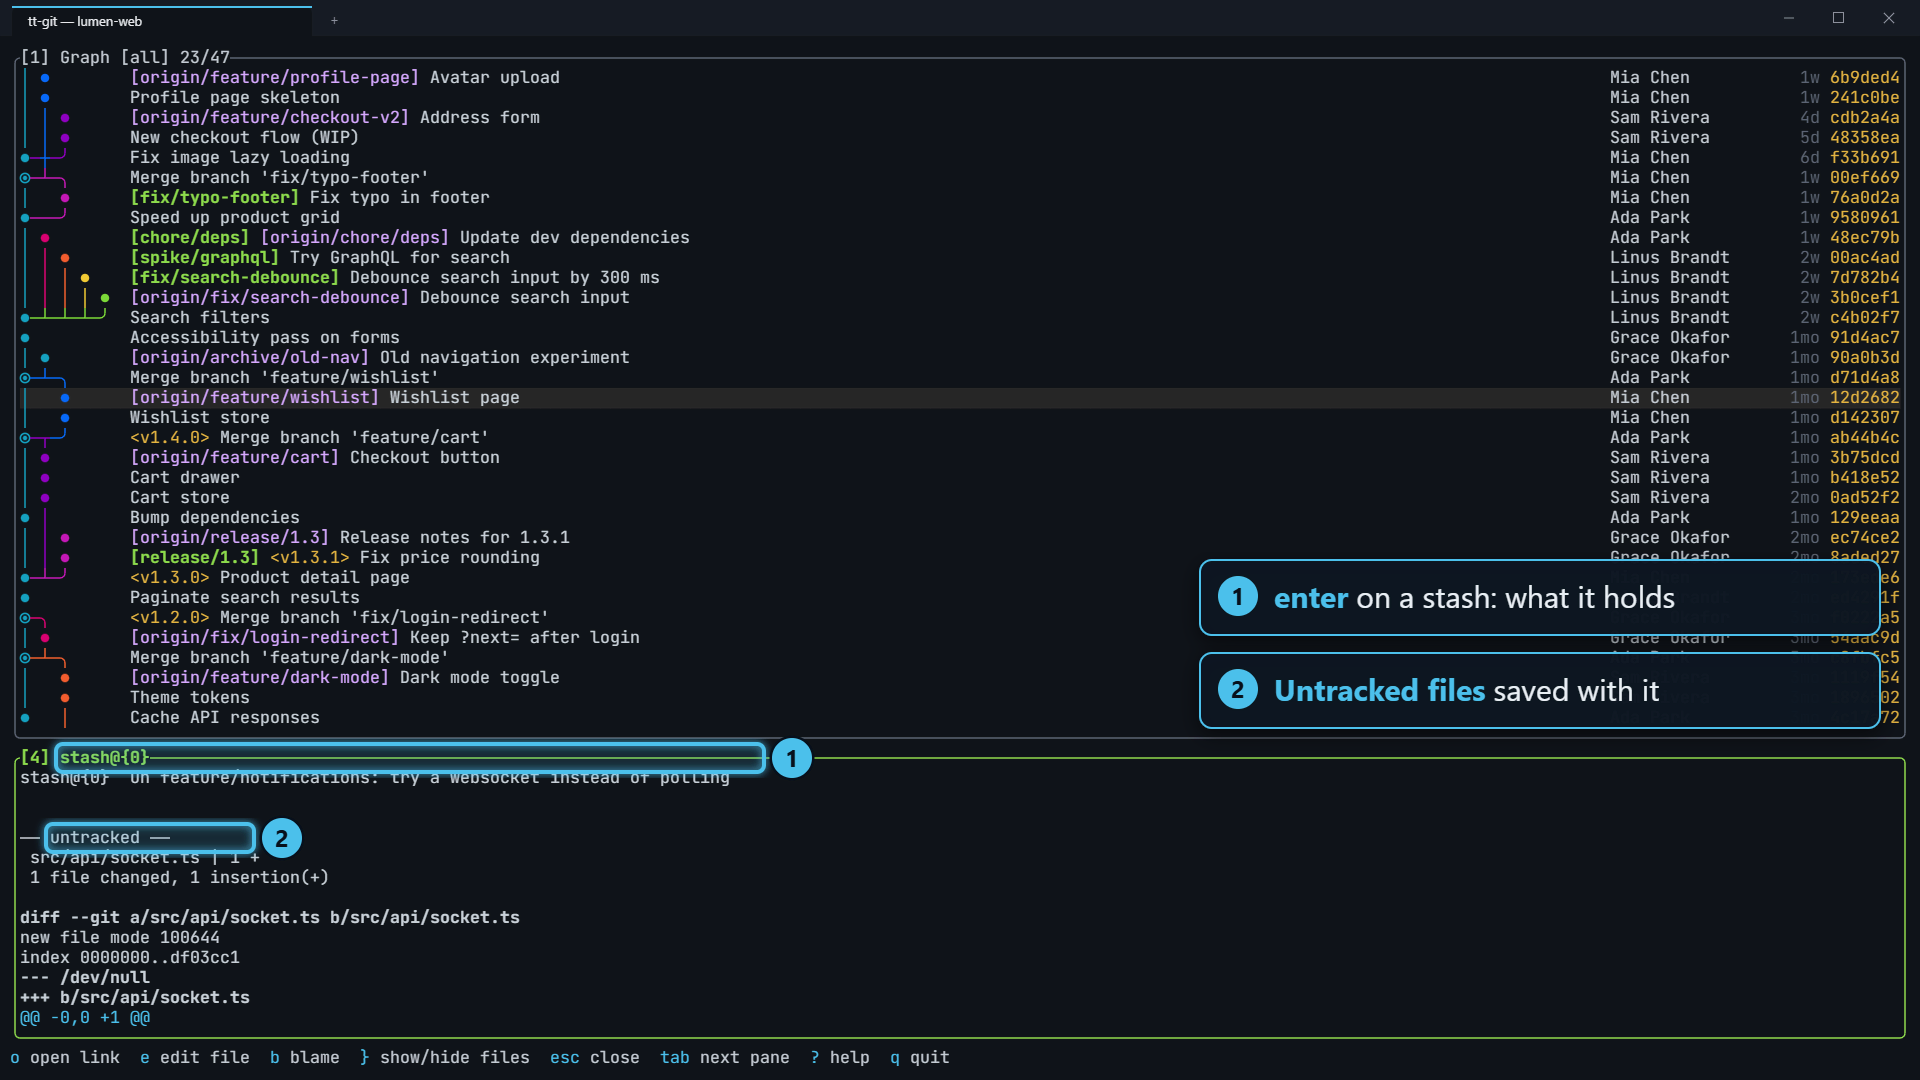
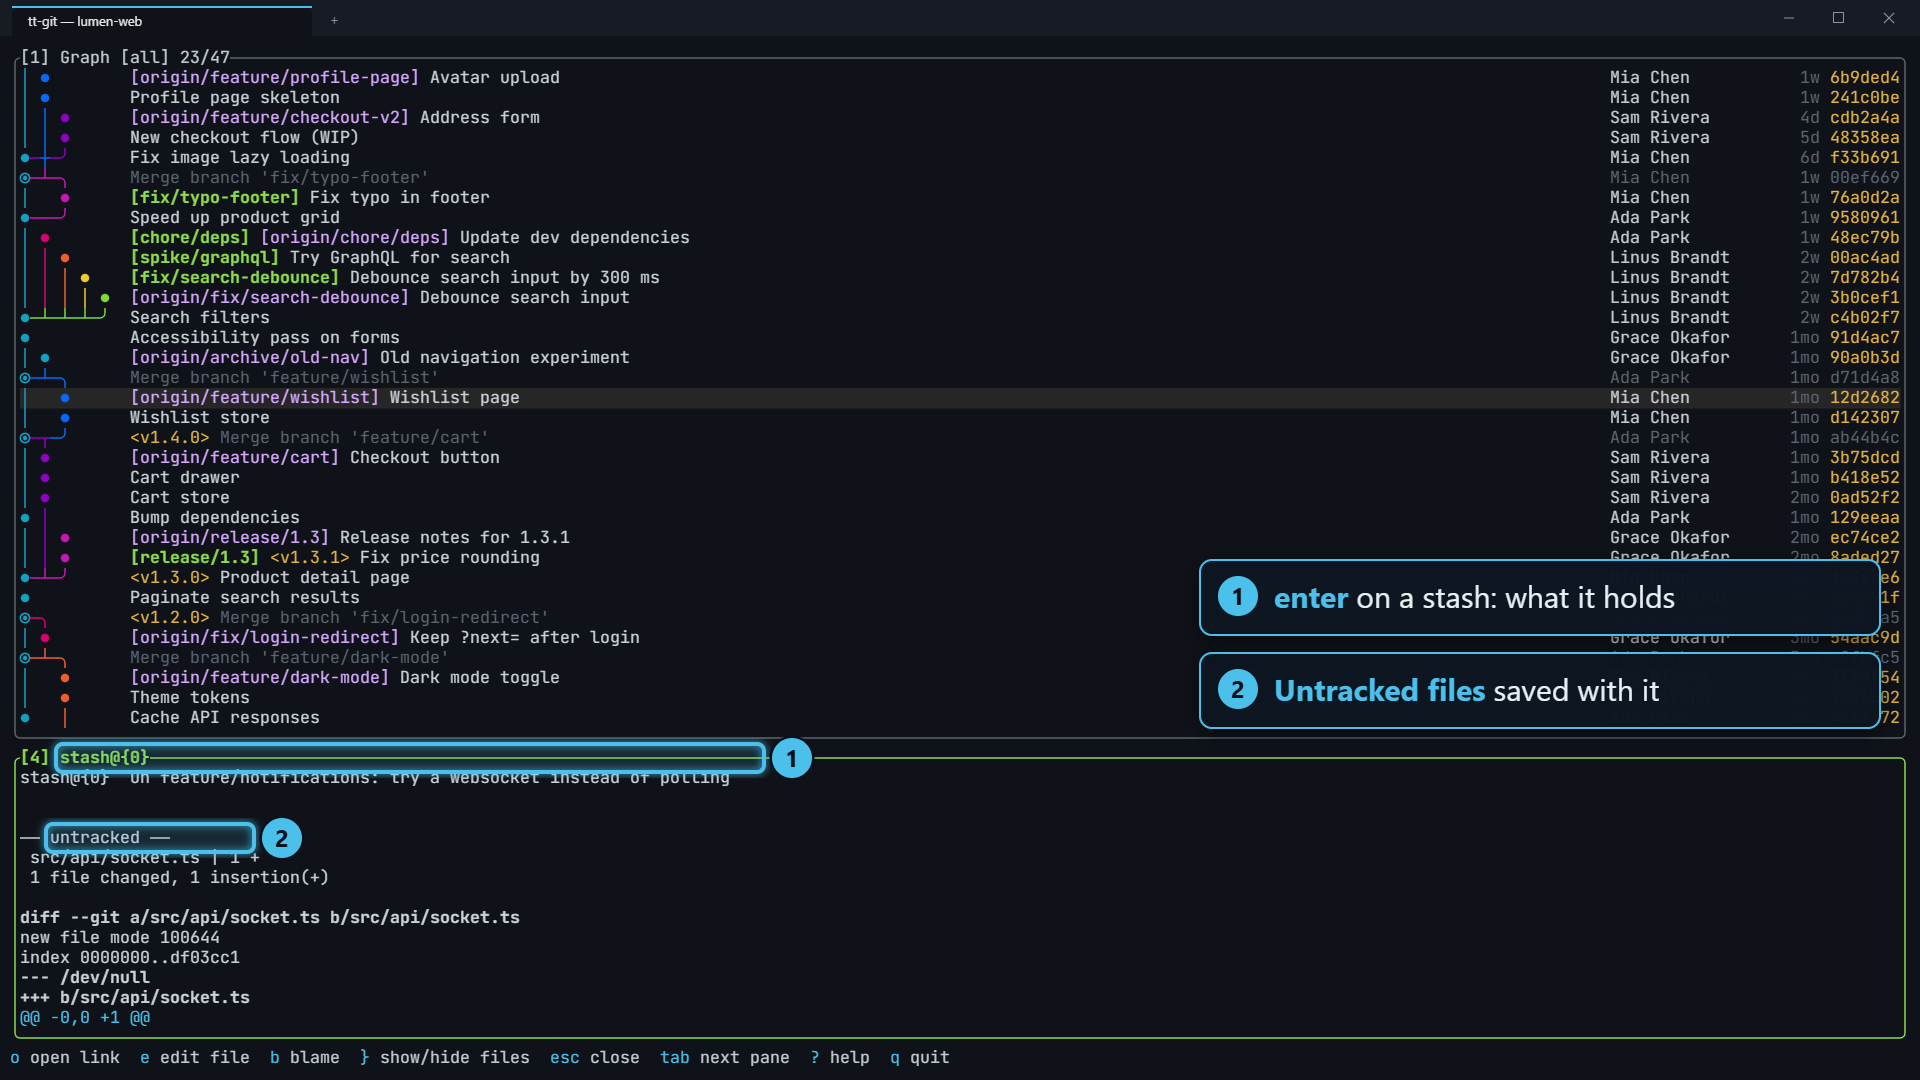
Graph: dim merge commits
A merge row's subject, author, date and hash are drawn in the muted
color so the commits that did the work stand out. The lane glyph, badges
and branch notes keep their colors.

Claude-Session: https://claude.ai/code/session_016SNbY8LBvts1mCBkCr3vcL

diff --git a/crates/tt-git-tui/src/panes/graph.rs b/crates/tt-git-tui/src/panes/graph.rs
@@ -584,21 +584,23 @@ impl GraphPane {
                 spans.push(Span::raw(" "));
             }
         }
-        push_fit(&mut spans, &commit.summary, text_width, Style::default());
+        // Merge commits are dimmed so the work itself stands out.
+        let dim = |style: Style| if row.is_merge() { theme.muted } else { style };
+        push_fit(&mut spans, &commit.summary, text_width, dim(Style::default()));
 
         if meta > 0 {
             if show_author {
                 spans.push(Span::raw(" "));
-                push_fit(&mut spans, &commit.author_name, AUTHOR_WIDTH, theme.author);
+                push_fit(&mut spans, &commit.author_name, AUTHOR_WIDTH, dim(theme.author));
             }
             spans.push(Span::raw(" "));
             let date = match self.dates {
                 DateStyle::Relative => relative(now, commit.commit_time),
                 DateStyle::Clock => clock_time(commit.commit_time, self.clock.utc_offset(commit.commit_time)),
             };
-            spans.push(Span::styled(fit_right(&date, date_width), theme.date));
+            spans.push(Span::styled(fit_right(&date, date_width), dim(theme.date)));
             spans.push(Span::raw(" "));
-            spans.push(Span::styled(commit.short_oid().to_string(), theme.sha));
+            spans.push(Span::styled(commit.short_oid().to_string(), dim(theme.sha)));
         }
         Line::from(spans)
     }
@@ -1046,6 +1048,33 @@ mod tests {
                 }
             }
         }
+    }
+
+    #[test]
+    fn merge_commits_are_dimmed() {
+        let (m, a, b) = ("a".repeat(40), "b".repeat(40), "c".repeat(40));
+        let commits = vec![commit(&m, &[&a, &b]), commit(&a, &[]), commit(&b, &[])];
+        let theme = Theme::default();
+        let (tx, _rx) = tokio::sync::mpsc::unbounded_channel();
+        let ctx = Ctx::new(tx);
+        let mut graph = GraphPane::new(Arc::new(tt_git_core::time::FixedClock(0)));
+        let load = graph.begin_load();
+        graph.apply_batch(load.generation(), commits, true, &ctx);
+
+        let style_of = |i: usize, text: &str| {
+            let line = graph.render_row(i, 2, 200, 0, &theme);
+            line.spans
+                .iter()
+                .find(|s| s.content.starts_with(text))
+                .expect(text)
+                .style
+        };
+        for text in ["a commit", "Ann", "aaaaaaa"] {
+            assert_eq!(style_of(0, text), theme.muted, "merge {text}");
+        }
+        assert_eq!(style_of(1, "a commit"), Style::default());
+        assert_eq!(style_of(1, "Ann"), theme.author);
+        assert_eq!(style_of(1, "bbbbbbb"), theme.sha);
     }
 
     #[test]
